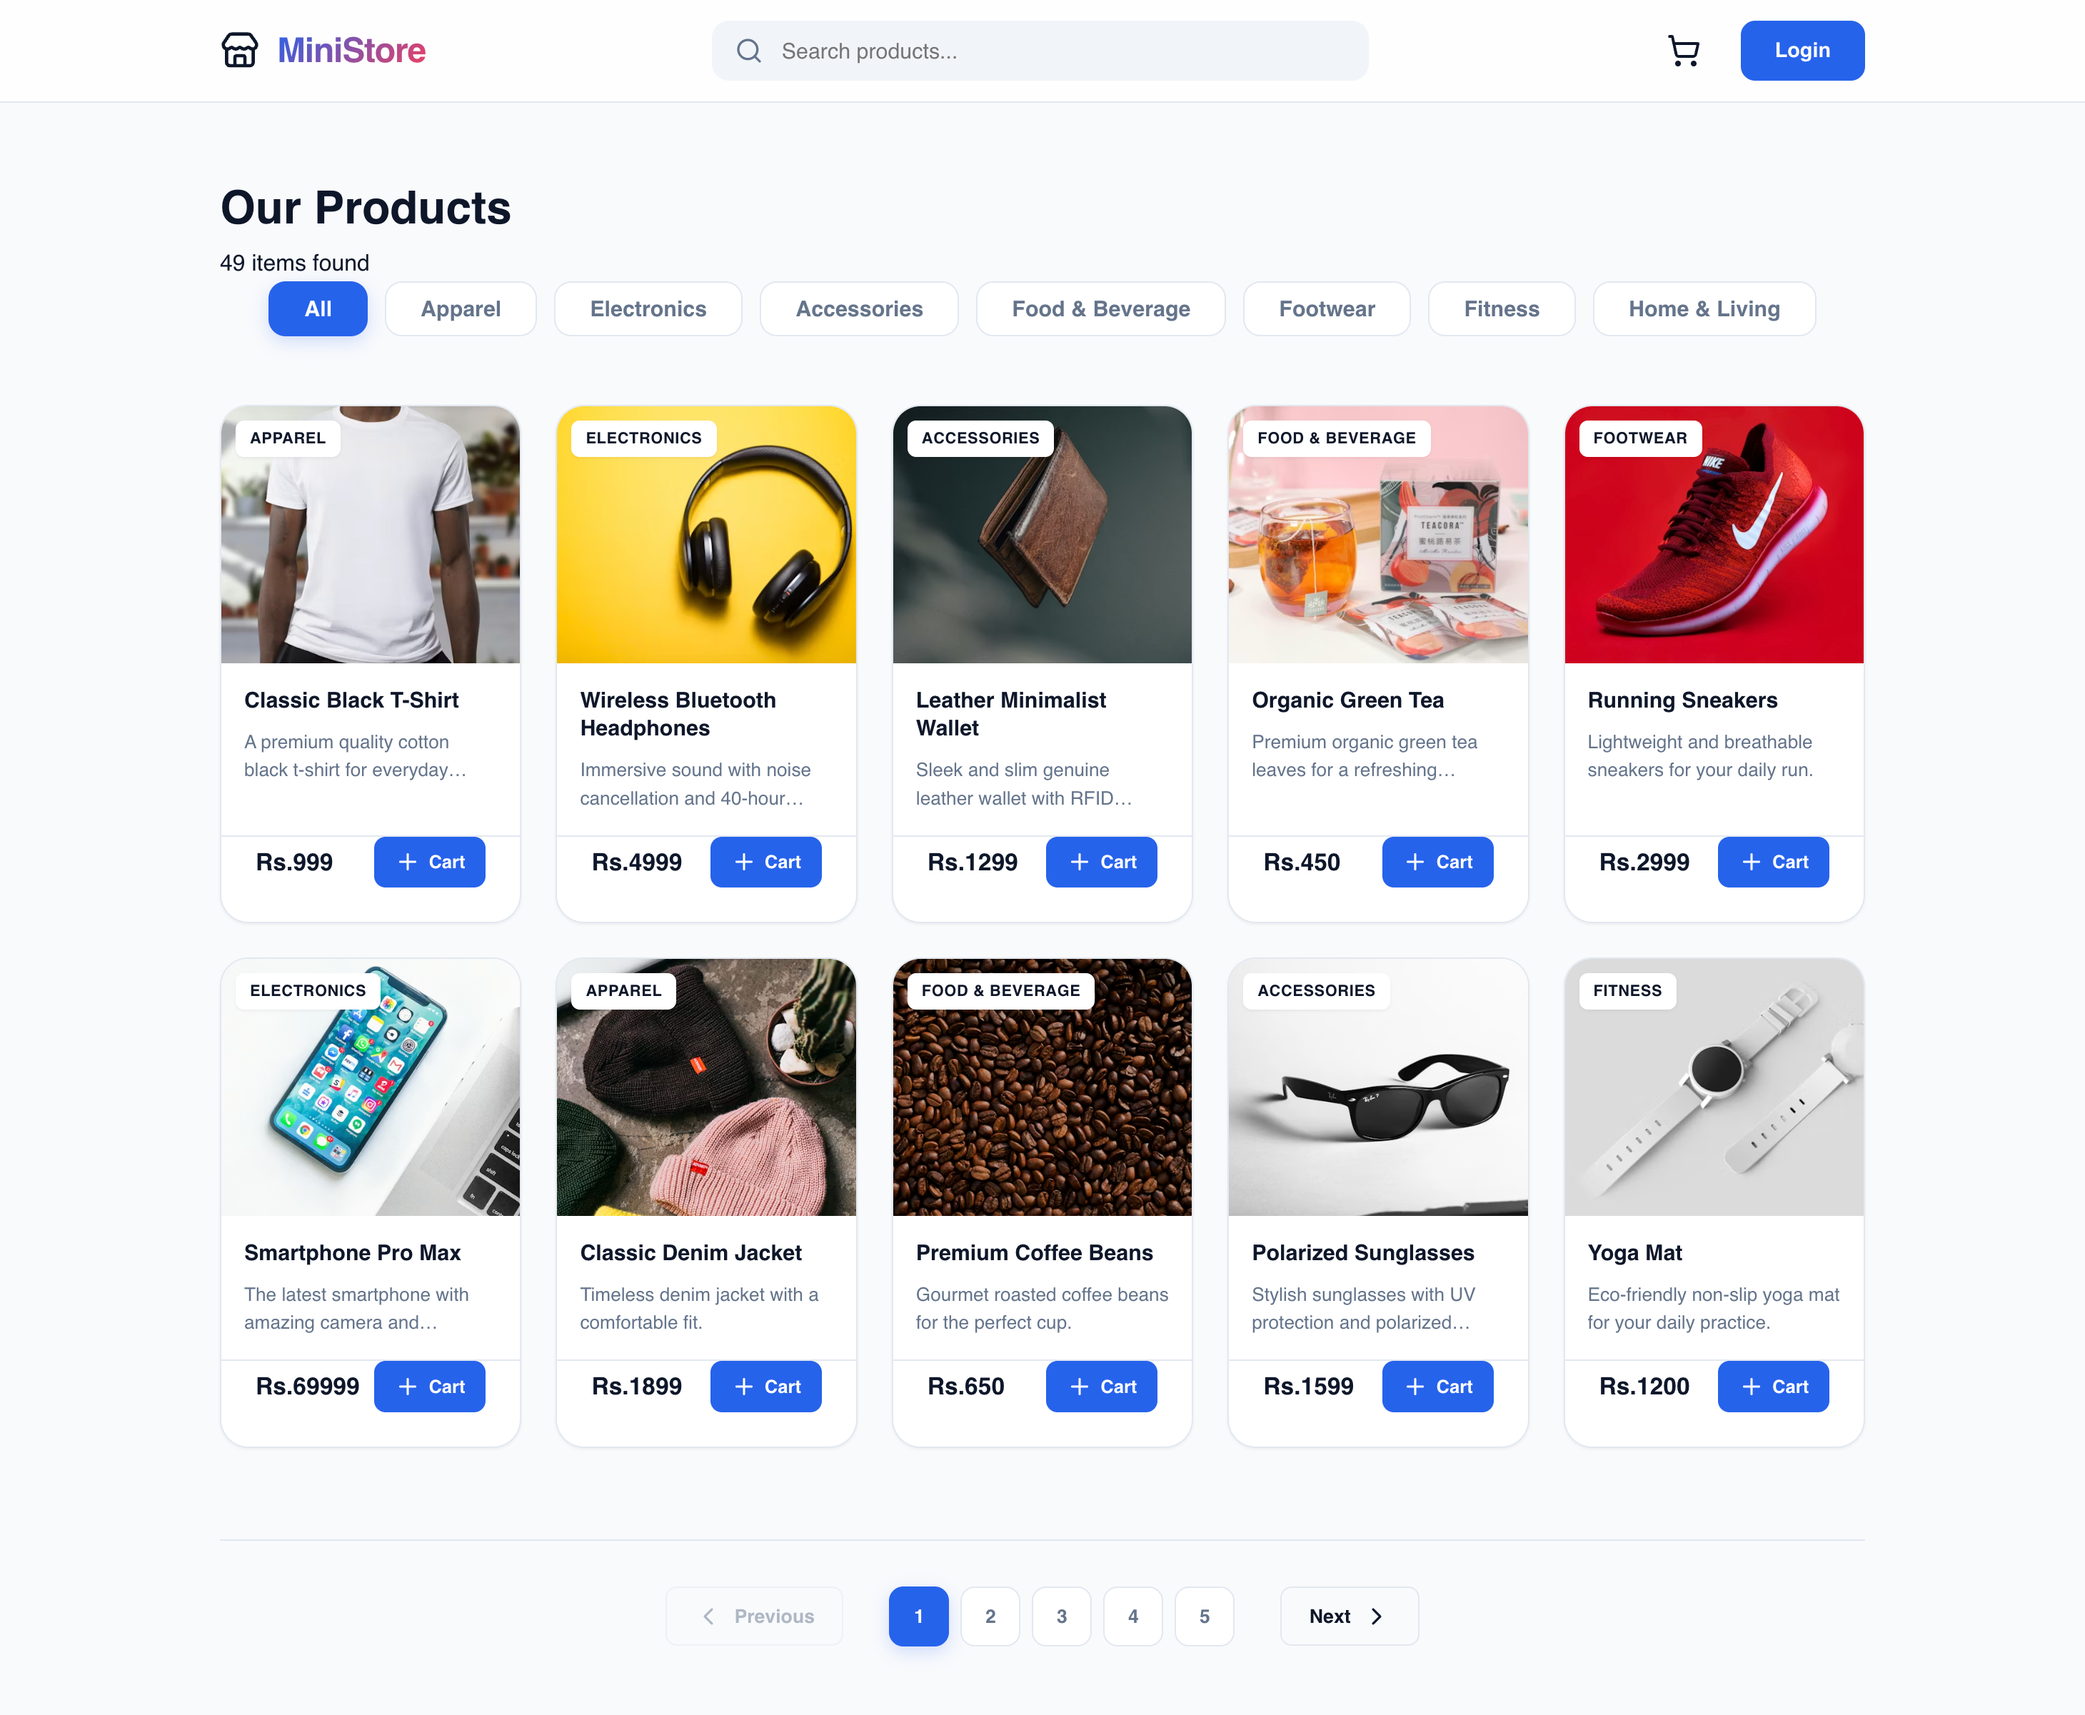
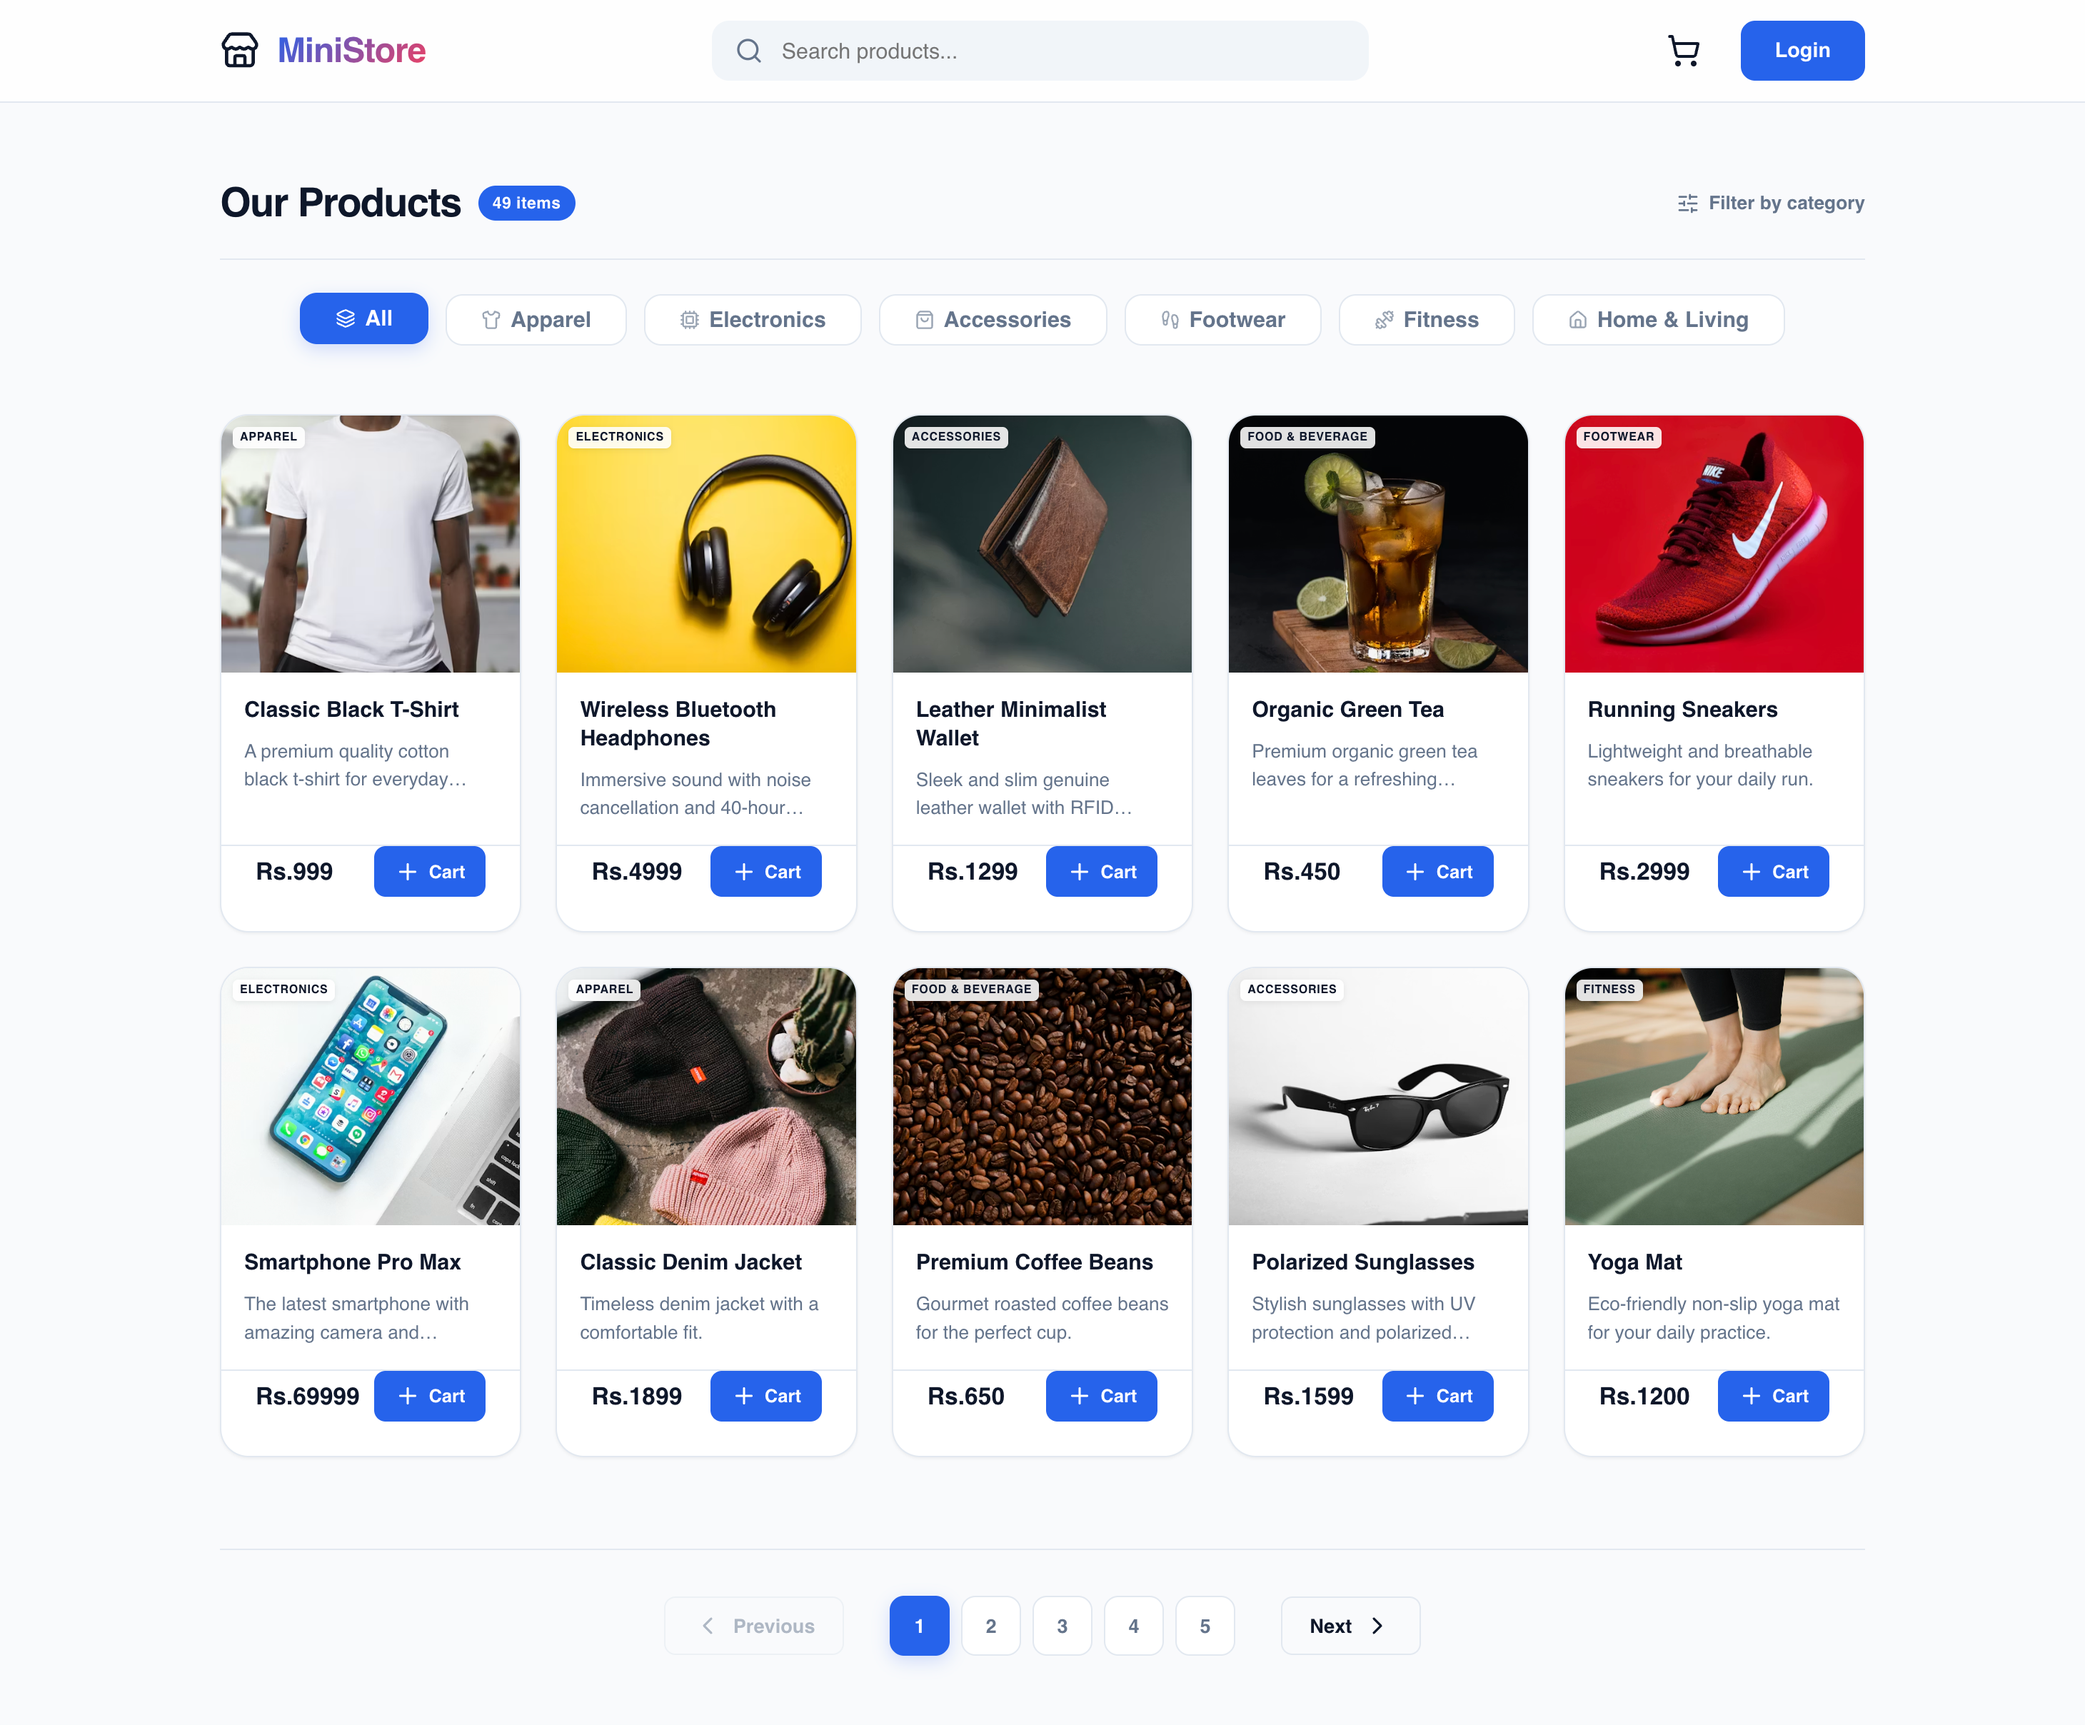
intial commit

diff --git a/src/index.css b/src/index.css
@@ -157,6 +157,180 @@ body {
     border: 2px solid white;
 }
 
+/* Page Header */
+.page-header {
+    display: flex;
+    justify-content: space-between;
+    align-items: center;
+    margin-bottom: 1.5rem;
+    padding-bottom: 1rem;
+    border-bottom: 1px solid var(--border-color);
+}
+
+.page-header-left {
+    display: flex;
+    align-items: center;
+    gap: 0.75rem;
+}
+
+.page-header-left h1 {
+    font-size: 1.75rem;
+    font-weight: 800;
+    color: var(--text-main);
+    margin: 0;
+    letter-spacing: -0.03em;
+}
+
+.items-found-badge {
+    display: inline-flex;
+    align-items: center;
+    background: var(--primary-color);
+    color: white;
+    font-size: 0.72rem;
+    font-weight: 700;
+    padding: 3px 10px;
+    border-radius: 99px;
+    letter-spacing: 0.02em;
+}
+
+.page-header-right {
+    display: flex;
+    align-items: center;
+    gap: 0.4rem;
+    color: var(--text-muted);
+    font-size: 0.82rem;
+    font-weight: 600;
+}
+
+/* Filters Section */
+.filters-section {
+    margin-bottom: 1.75rem;
+}
+
+.category-filters {
+    display: flex;
+    flex-wrap: wrap;
+    gap: 0.5rem;
+    align-items: center;
+}
+
+.filter-btn {
+    display: inline-flex;
+    align-items: center;
+    gap: 0.4rem;
+    padding: 0.45rem 0.9rem;
+    border-radius: 99px;
+    border: 1.5px solid var(--border-color);
+    background: var(--card-bg);
+    color: var(--text-muted);
+    font-size: 0.8rem;
+    font-weight: 600;
+    cursor: pointer;
+    transition: all 0.2s cubic-bezier(0.4, 0, 0.2, 1);
+    white-space: nowrap;
+    line-height: 1;
+}
+
+.filter-btn svg {
+    opacity: 0.65;
+    transition: opacity 0.2s ease, transform 0.2s ease;
+    flex-shrink: 0;
+}
+
+.filter-btn:hover {
+    border-color: var(--primary-color);
+    color: var(--primary-color);
+    transform: translateY(-1px);
+    box-shadow: 0 3px 10px rgba(37, 99, 235, 0.12);
+}
+
+.filter-btn:hover svg {
+    opacity: 1;
+    transform: scale(1.1);
+}
+
+.filter-btn.active {
+    background: var(--primary-color);
+    border-color: var(--primary-color);
+    color: white;
+    box-shadow: 0 4px 12px rgba(37, 99, 235, 0.25);
+    transform: translateY(-1px);
+}
+
+.filter-btn.active svg {
+    opacity: 1;
+}
+
+/* Pagination */
+.pagination {
+    display: flex;
+    justify-content: center;
+    align-items: center;
+    gap: 0.75rem;
+    margin-top: 3rem;
+    padding-top: 2rem;
+    border-top: 1px solid var(--border-color);
+}
+
+.page-btn {
+    display: inline-flex;
+    align-items: center;
+    gap: 0.4rem;
+    padding: 0.6rem 1.1rem;
+    border-radius: 10px;
+    border: 1.5px solid var(--border-color);
+    background: var(--card-bg);
+    color: var(--text-main);
+    font-size: 0.85rem;
+    font-weight: 700;
+    cursor: pointer;
+    transition: all 0.2s ease;
+}
+
+.page-btn:hover:not(:disabled) {
+    border-color: var(--primary-color);
+    color: var(--primary-color);
+    transform: translateY(-1px);
+}
+
+.page-btn:disabled {
+    opacity: 0.4;
+    cursor: not-allowed;
+}
+
+.page-numbers {
+    display: flex;
+    gap: 0.4rem;
+}
+
+.page-num {
+    width: 36px;
+    height: 36px;
+    border-radius: 8px;
+    border: 1.5px solid var(--border-color);
+    background: var(--card-bg);
+    color: var(--text-main);
+    font-size: 0.85rem;
+    font-weight: 700;
+    cursor: pointer;
+    transition: all 0.2s ease;
+    display: flex;
+    align-items: center;
+    justify-content: center;
+}
+
+.page-num:hover:not(.active) {
+    border-color: var(--primary-color);
+    color: var(--primary-color);
+}
+
+.page-num.active {
+    background: var(--primary-color);
+    border-color: var(--primary-color);
+    color: white;
+    box-shadow: 0 3px 10px rgba(37, 99, 235, 0.25);
+}
+
 /* Product Grid */
 /* Product Grid */
 .product-grid {
@@ -243,17 +417,18 @@ body {
 
 .category-tag {
     position: absolute;
-    top: 10px;
-    left: 10px;
-    background: white;
+    top: 8px;
+    left: 8px;
+    background: rgba(255, 255, 255, 0.88);
+    backdrop-filter: blur(6px);
     color: var(--text-main);
-    padding: 4px 10px;
-    border-radius: 6px;
-    font-size: 0.68rem;
+    padding: 1px 5px;
+    border-radius: 4px;
+    font-size: 0.5rem;
     font-weight: 700;
     text-transform: uppercase;
-    letter-spacing: 0.03em;
-    box-shadow: var(--shadow-sm);
+    letter-spacing: 0.05em;
+    box-shadow: 0 1px 4px rgba(0, 0, 0, 0.08);
     z-index: 10;
 }
 

diff --git a/server/seeder.js b/server/seeder.js
@@ -100,7 +100,7 @@ const products = [
         price: 1200,
         category: 'Fitness',
         stock: 80,
-        image: 'https://images.unsplash.com/photo-1601925228245-7cf43dbfe75a?w=500&auto=format&fit=crop&q=60'
+        image: 'https://images.unsplash.com/photo-1637157216470-d92cd2edb2e8?q=80&w=2070&auto=format&fit=crop&ixlib=rb-4.1.0&ixid=M3wxMjA3fDB8MHxwaG90by1wYWdlfHx8fGVufDB8fHx8fA%3D%3D'
     },
     {
         name: 'Dumbbell Set',
@@ -108,7 +108,7 @@ const products = [
         price: 2499,
         category: 'Fitness',
         stock: 20,
-        image: 'https://images.unsplash.com/photo-1585152068212-14cf525d24d0?w=500&auto=format&fit=crop&q=60'
+        image: 'https://plus.unsplash.com/premium_photo-1723773734089-a896ee701eef?q=80&w=2765&auto=format&fit=crop&ixlib=rb-4.1.0&ixid=M3wxMjA3fDB8MHxwaG90by1wYWdlfHx8fGVufDB8fHx8fA%3D%3D'
     },
     {
         name: 'Mechanical Keyboard',
@@ -204,7 +204,7 @@ const products = [
         price: 599,
         category: 'Home & Living',
         stock: 110,
-        image: 'https://images.unsplash.com/photo-1603006905003-be475513b19b?w=500&auto=format&fit=crop&q=60'
+        image: 'https://plus.unsplash.com/premium_photo-1671534312576-845be6898618?q=80&w=2232&auto=format&fit=crop&ixlib=rb-4.1.0&ixid=M3wxMjA3fDB8MHxwaG90by1wYWdlfHx8fGVufDB8fHx8fA%3D%3D'
     },
     {
         name: 'Portable Power Bank',
@@ -244,7 +244,7 @@ const products = [
         price: 1199,
         category: 'Home & Living',
         stock: 120,
-        image: 'https://images.unsplash.com/photo-1584100936595-c0654b50a9f2?w=500&auto=format&fit=crop&q=60'
+        image: 'https://plus.unsplash.com/premium_photo-1739612423035-4d3b7a34ea39?q=80&w=2070&auto=format&fit=crop&ixlib=rb-4.1.0&ixid=M3wxMjA3fDB8MHxwaG90by1wYWdlfHx8fGVufDB8fHx8fA%3D%3D'
     },
     {
         name: 'Silk Sleep Mask',
@@ -260,7 +260,7 @@ const products = [
         price: 1850,
         category: 'Home & Living',
         stock: 60,
-        image: 'https://images.unsplash.com/photo-1616489953149-8d7697e08960?w=500&auto=format&fit=crop&q=60'
+        image: 'https://plus.unsplash.com/premium_photo-1683121918741-4fc54b7f5ede?q=80&w=2070&auto=format&fit=crop&ixlib=rb-4.1.0&ixid=M3wxMjA3fDB8MHxwaG90by1wYWdlfHx8fGVufDB8fHx8fA%3D%3D'
     },
     {
         name: 'Gold-Plated Stationery',
@@ -324,7 +324,7 @@ const products = [
         price: 2100,
         category: 'Accessories',
         stock: 55,
-        image: 'https://images.unsplash.com/photo-1583847268964-b28dc2f51ac9?w=500&auto=format&fit=crop&q=60'
+        image: 'https://m.media-amazon.com/images/I/41VFNh7dryL._SY300_SX300_QL70_FMwebp_.jpg'
     },
     {
         name: 'Italian Leather Belt',
@@ -332,7 +332,7 @@ const products = [
         price: 1999,
         category: 'Accessories',
         stock: 75,
-        image: 'https://images.unsplash.com/photo-1624222247344-550fb805bb2a?w=500&auto=format&fit=crop&q=60'
+        image: 'https://m.media-amazon.com/images/I/416TGddUuSL._AC_UL640_FMwebp_QL65_.jpg'
     },
     {
         name: 'Crystal Wine Glasses',
@@ -348,7 +348,7 @@ const products = [
         price: 1550,
         category: 'Food & Beverage',
         stock: 80,
-        image: 'https://images.unsplash.com/photo-1474978528675-4a50a4508815?w=500&auto=format&fit=crop&q=60'
+        image: 'https://m.media-amazon.com/images/I/61pl1SrE0FL._SY879_.jpg'
     },
     {
         name: 'Solid Oak Cutting Board',
@@ -356,7 +356,7 @@ const products = [
         price: 3600,
         category: 'Home & Living',
         stock: 22,
-        image: 'https://images.unsplash.com/photo-1584282305373-c1f61884485e?w=500&auto=format&fit=crop&q=60'
+        image: 'https://m.media-amazon.com/images/I/41EYkBmip0L._AC_UL640_FMwebp_QL65_.jpg'
     },
     {
         name: 'Copper Cocktail Shaker',
@@ -396,7 +396,7 @@ const products = [
         price: 24999,
         category: 'Electronics',
         stock: 8,
-        image: 'https://images.unsplash.com/photo-1541167760496-162955ed8a9f?w=500&auto=format&fit=crop&q=60'
+        image: 'https://m.media-amazon.com/images/I/71drOx2anhL._AC_UY436_FMwebp_QL65_.jpg'
     },
     {
         name: 'Wool Yoga Blanket',

diff --git a/src/pages/Home.jsx b/src/pages/Home.jsx
@@ -3,9 +3,21 @@ import ProductCard from '../components/product/ProductCard';
 import { ProductCardSkeleton } from '../components/common/Skeleton';
 import { useCart } from '../context/CartContext';
 import { useProducts } from '../context/ProductContext';
-import { Loader2, ChevronLeft, ChevronRight } from 'lucide-react';
+import { Loader2, ChevronLeft, ChevronRight, Layers, Shirt, Cpu, ShoppingBag, Coffee, Footprints, Dumbbell, Home as HomeIcon, SlidersHorizontal } from 'lucide-react';
 
 import { PRODUCT_CATEGORIES } from '../constants/apiConstants';
+
+const CATEGORY_ICONS = {
+    'All': Layers,
+    'Apparel': Shirt,
+    'Electronics': Cpu,
+    'Accessories': ShoppingBag,
+    'Food & Beverage': Coffee,
+    'Footwear': Footprints,
+    'Fitness': Dumbbell,
+    'Home & Living': HomeIcon,
+};
+
 
 const Home = ({ searchTerm }) => {
     const { products, loading, page, pages, count, category, setPage, setCategory, fetchProducts } = useProducts();
@@ -35,24 +47,38 @@ const Home = ({ searchTerm }) => {
 
     return (
         <div className="container py-4 fade-in">
-            <header className="page-header">
-                <h1>Our Products</h1>
-                <p>{loading ? 'Finding items...' : `${count} items found`}</p>
-            </header>
+            <div className="page-header">
+                <div className="page-header-left">
+                    <h1>Our Products</h1>
+                    <span className="items-found-badge">
+                        {loading ? 'Finding...' : `${count} items`}
+                    </span>
+                </div>
+                <div className="page-header-right">
+                    <SlidersHorizontal size={16} />
+                    <span>Filter by category</span>
+                </div>
+            </div>
 
             <div className="filters-section">
                 <div className="category-filters">
-                    {categories.map(cat => (
-                        <button
-                            key={cat}
-                            className={`filter-btn ${category === cat || (cat === 'All' && !category) ? 'active' : ''}`}
-                            onClick={() => handleCategoryChange(cat)}
-                        >
-                            {cat}
-                        </button>
-                    ))}
+                    {categories.map(cat => {
+                        const Icon = CATEGORY_ICONS[cat] || Layers;
+                        const isActive = category === cat || (cat === 'All' && !category);
+                        return (
+                            <button
+                                key={cat}
+                                className={`filter-btn ${isActive ? 'active' : ''}`}
+                                onClick={() => handleCategoryChange(cat)}
+                            >
+                                <Icon size={14} />
+                                <span>{cat}</span>
+                            </button>
+                        );
+                    })}
                 </div>
             </div>
+
 
             {loading ? (
                 <div className="product-grid">

diff --git a/src/constants/apiConstants.js b/src/constants/apiConstants.js
@@ -5,7 +5,6 @@ export const PRODUCT_CATEGORIES = [
     'Apparel',
     'Electronics',
     'Accessories',
-    'Food & Beverage',
     'Footwear',
     'Fitness',
     'Home & Living'
